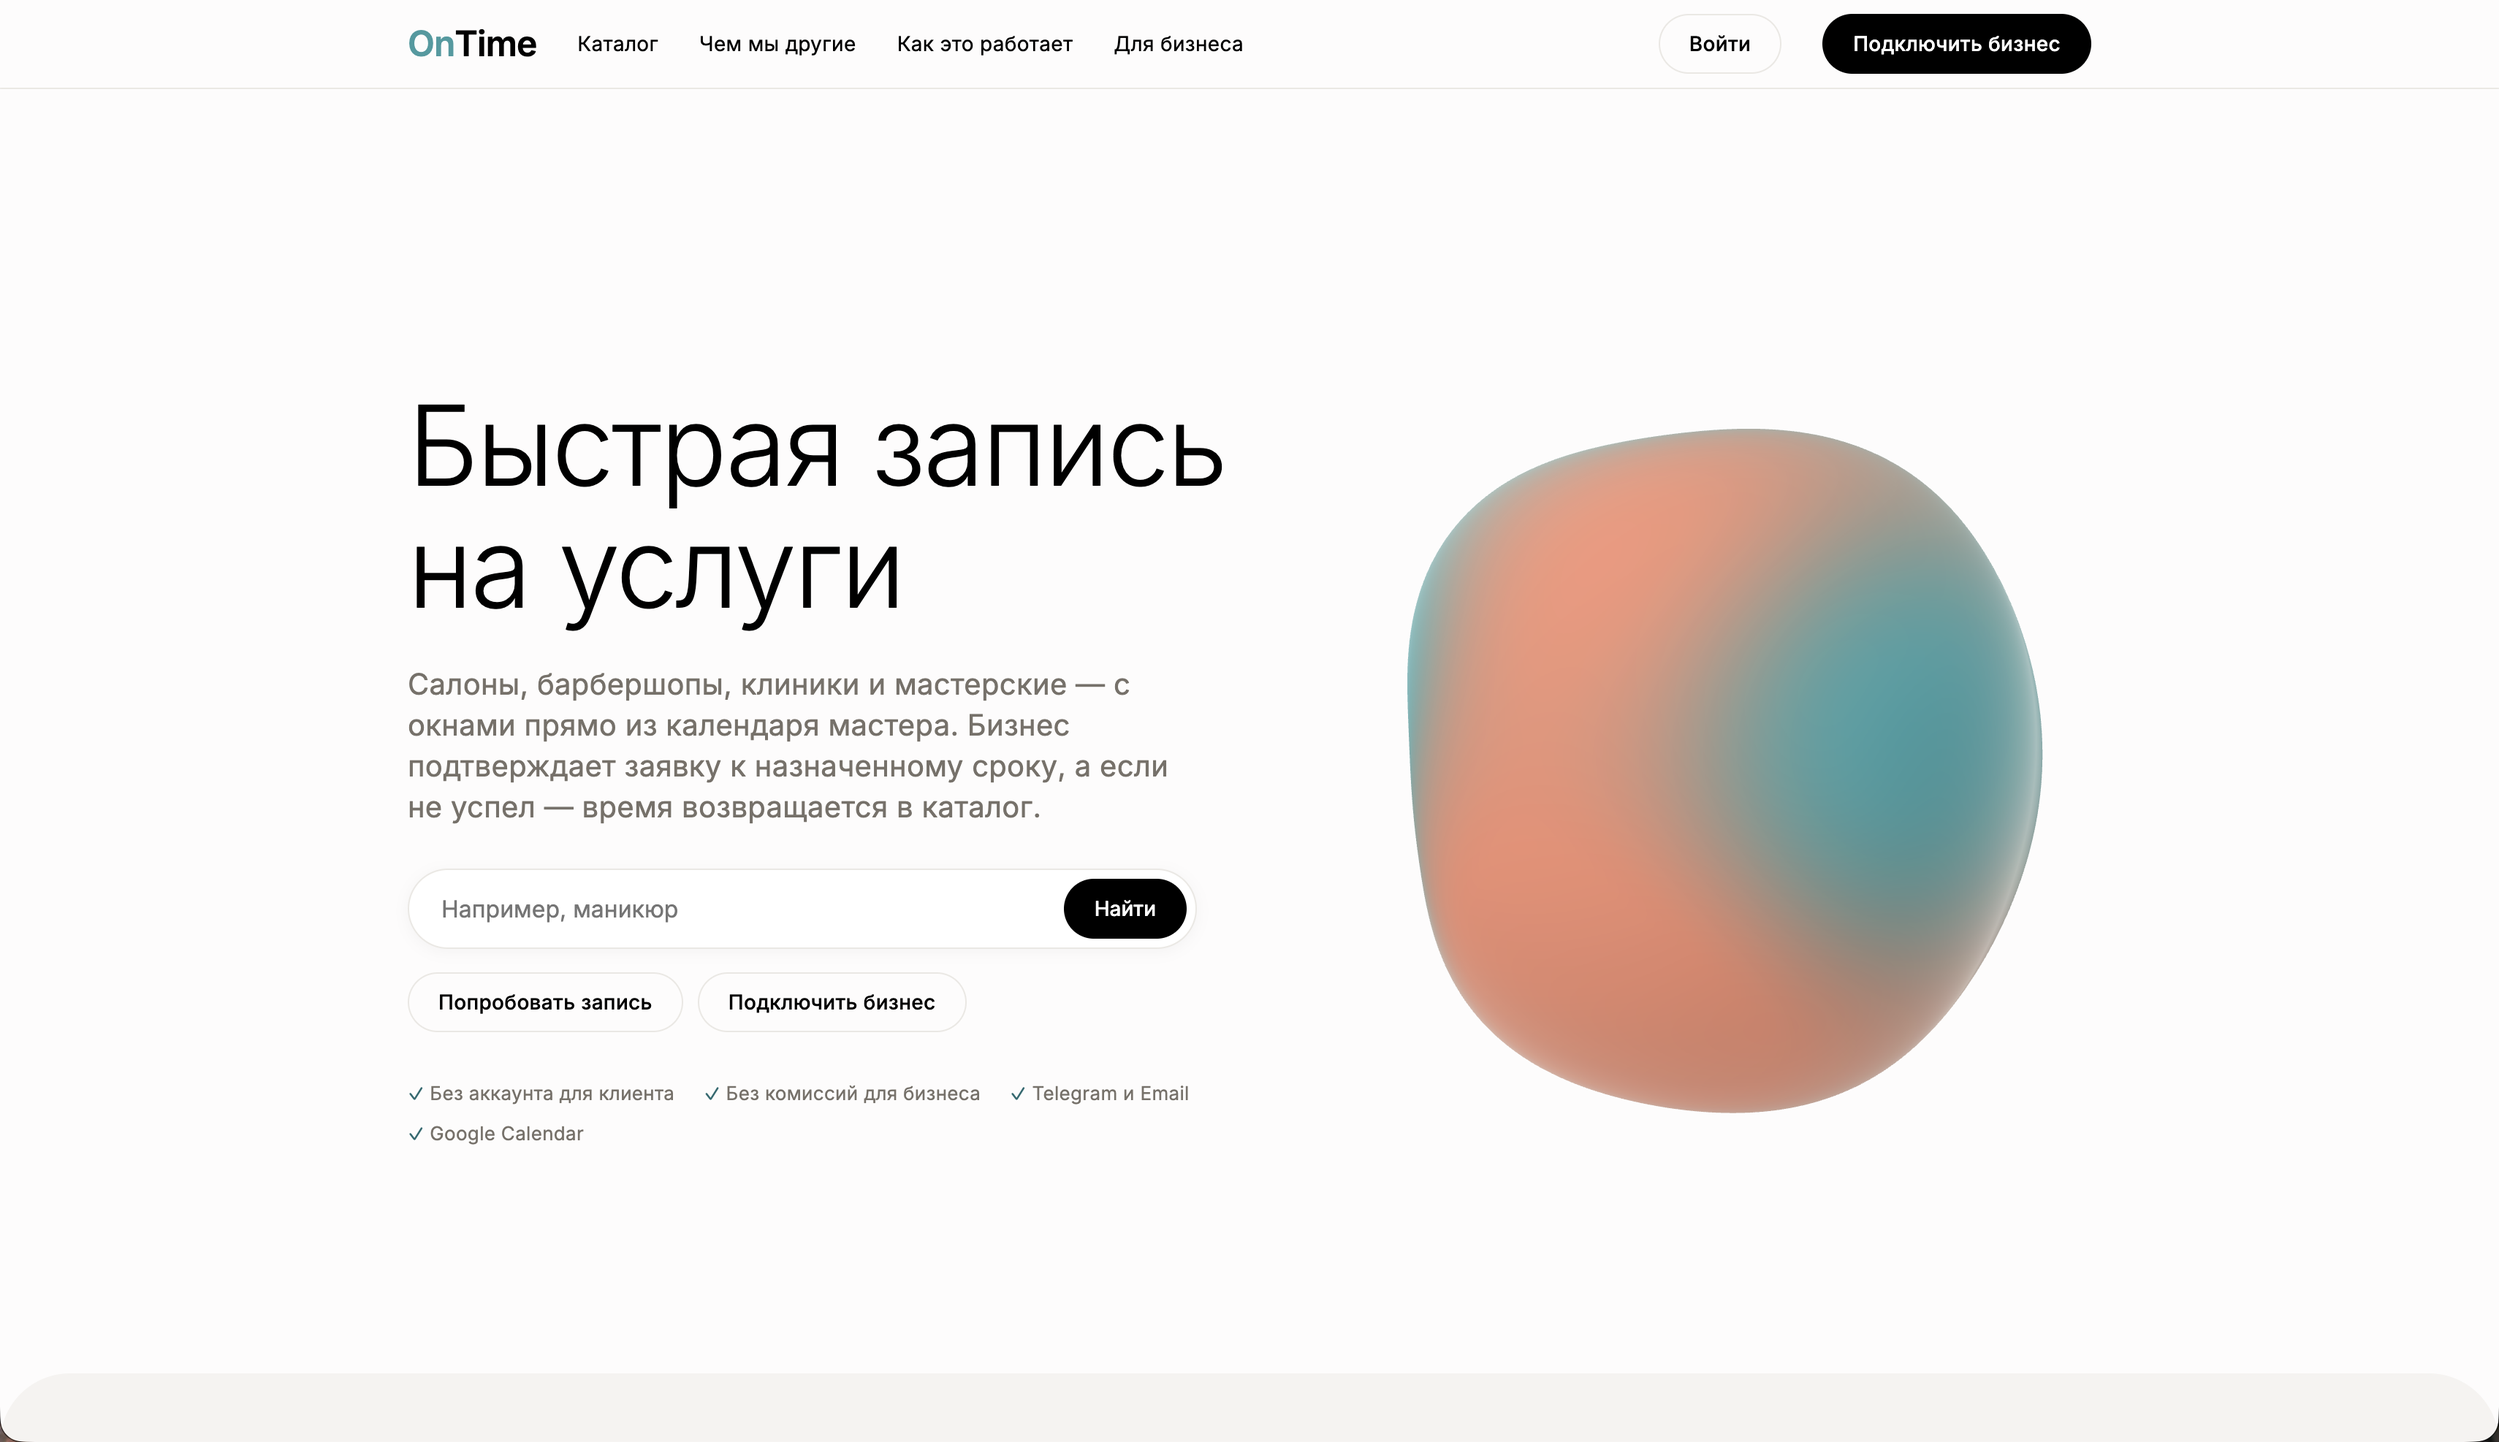
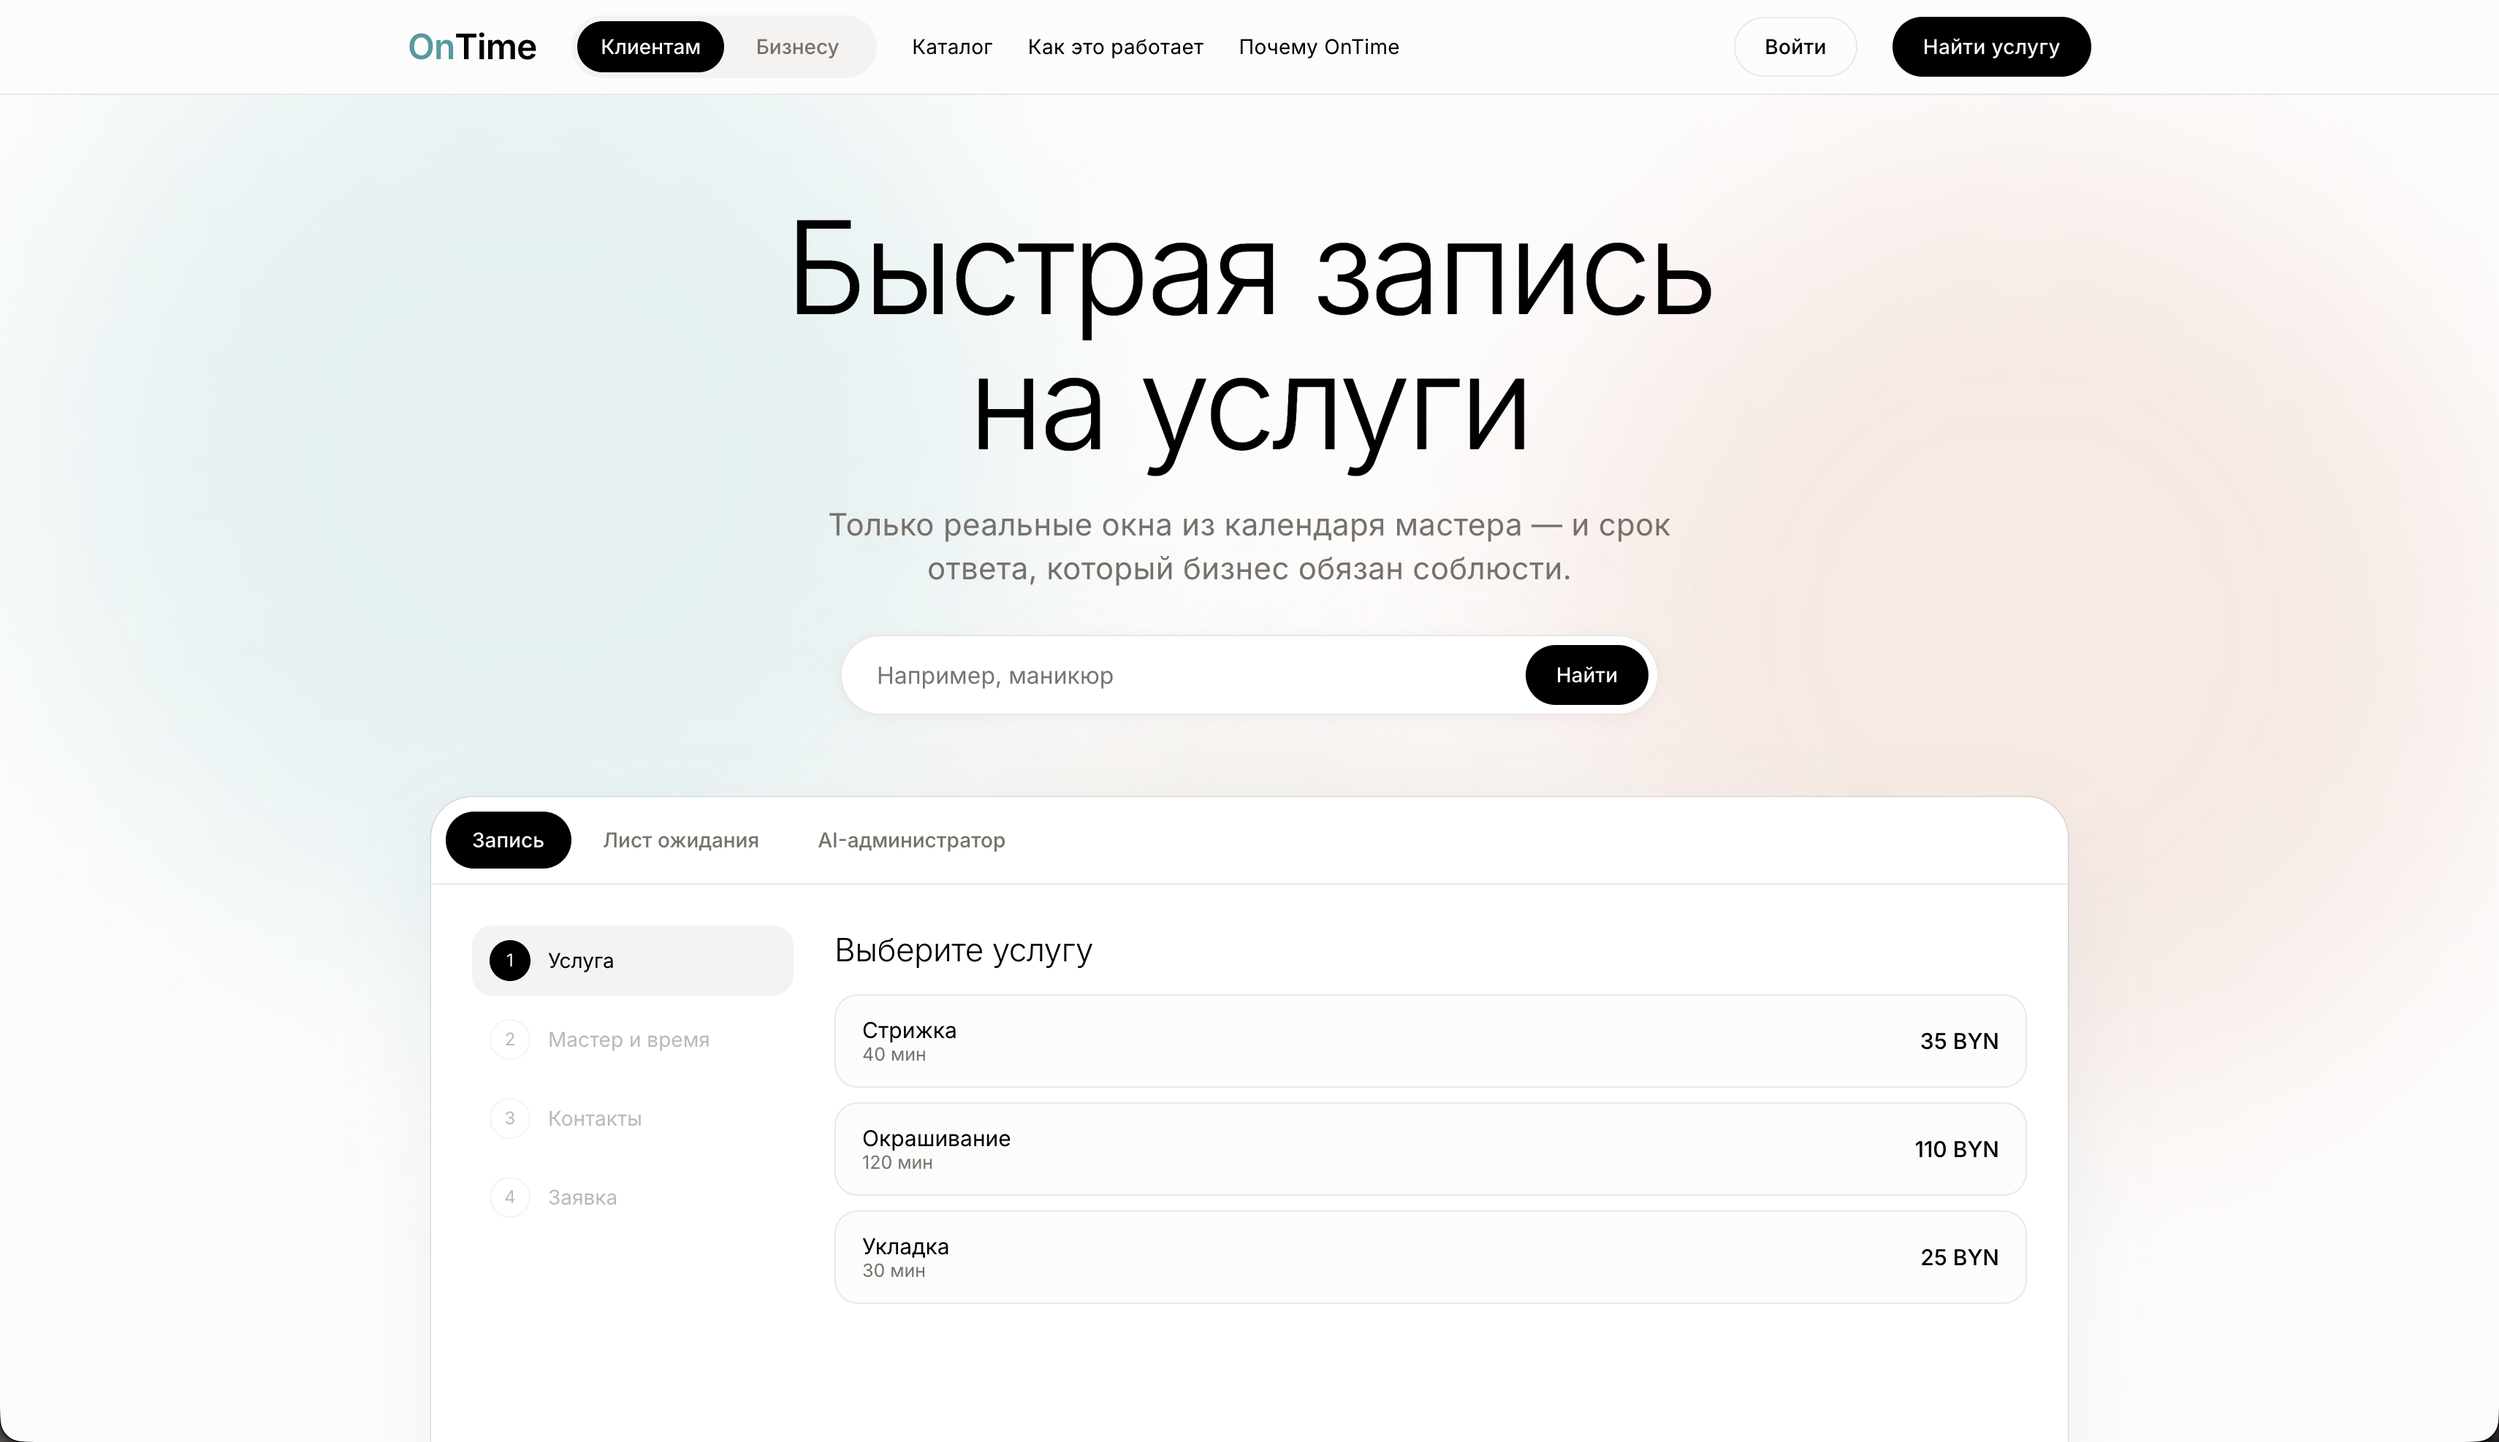
updated photoes and index.html

diff --git a/index.html b/index.html
@@ -340,7 +340,7 @@ code { background: var(--tp); border: 1px solid var(--line); border-radius: 6px;
   <div class="inner">
     <div>
       <div class="kick"><div class="slot" data-k=".8" data-h=".5"></div><div class="eyebrow"><span class="n">03</span> Google Calendar</div></div>
-      <p class="pain">Расписание в тетради<svg class="strike" viewBox="0 0 100 20" preserveAspectRatio="none" aria-hidden="true"><path pathLength="1" d="M2 12 C 20 8, 38 13, 55 9 S 85 7, 98 10"/></svg></p>
+      <p class="pain">Расписание только на платформе<svg class="strike" viewBox="0 0 100 20" preserveAspectRatio="none" aria-hidden="true"><path pathLength="1" d="M2 12 C 20 8, 38 13, 55 9 S 85 7, 98 10"/></svg></p>
       <h2 class="gain">Всё в <em>Google Calendar</em></h2>
     </div>
     <figure class="shot" data-file="shots/calendar.png">
@@ -405,7 +405,7 @@ code { background: var(--tp); border: 1px solid var(--line); border-radius: 6px;
     </div>
     <figure class="shot" data-file="shots/telegram.png">
       <div class="mock-bar"><i></i><i></i><i></i><span>Telegram</span></div>
-      <img src="shots/telegram.jpeg" alt="Уведомления в Telegram">
+      <img src="shots/telegram.png" alt="Уведомления в Telegram">
     </figure>
   </div>
 </section>
@@ -444,7 +444,7 @@ code { background: var(--tp); border: 1px solid var(--line); border-radius: 6px;
 <section class="slide" data-title="on-time.by">
   <div class="inner final rise">
     <div class="slot" data-k="1" data-h=".6" style="--s:110px"></div>
-    <h2>Запишитесь в OnTime прямо сейчас</h2>
+    <h2>OnTime готов к первым клиентам</h2>
     <a class="qr" href="https://on-time.by" target="_blank" rel="noopener" aria-label="QR-код: on-time.by">
       <svg viewBox="-2 -2 29 29" shape-rendering="crispEdges"><path stroke="#000" d="M0 0.5h7m3 0h2m6 0h7m-25 1h1m5 0h1m2 0h3m6 0h1m5 0h1m-25 1h1m1 0h3m1 0h1m4 0h1m1 0h1m2 0h1m1 0h1m1 0h3m1 0h1m-25 1h1m1 0h3m1 0h1m1 0h5m5 0h1m1 0h3m1 0h1m-25 1h1m1 0h3m1 0h1m5 0h3m3 0h1m1 0h3m1 0h1m-25 1h1m5 0h1m1 0h1m2 0h1m6 0h1m5 0h1m-25 1h7m1 0h1m1 0h1m1 0h1m1 0h1m1 0h1m1 0h7m-17 1h4m3 0h2m-16 1h2m3 0h1m4 0h4m1 0h1m1 0h2m1 0h1m-21 1h2m1 0h1m2 0h1m1 0h1m2 0h2m1 0h1m2 0h2m1 0h1m1 0h2m-24 1h2m1 0h1m1 0h2m1 0h1m1 0h2m2 0h1m5 0h2m1 0h1m-25 1h2m5 0h2m4 0h1m2 0h1m1 0h4m-22 1h1m1 0h1m3 0h4m3 0h1m1 0h5m4 0h1m-24 1h3m1 0h1m2 0h2m2 0h2m1 0h2m1 0h2m3 0h2m-25 1h2m1 0h2m1 0h1m2 0h1m2 0h4m5 0h2m1 0h1m-22 1h1m4 0h2m1 0h4m1 0h2m1 0h3m-22 1h4m2 0h4m2 0h1m1 0h1m1 0h5m2 0h1m-16 1h1m1 0h1m5 0h1m3 0h1m3 0h1m-25 1h7m2 0h2m1 0h2m2 0h1m1 0h1m1 0h1m3 0h1m-25 1h1m5 0h1m4 0h1m1 0h1m1 0h2m3 0h1m3 0h1m-25 1h1m1 0h3m1 0h1m3 0h1m2 0h8m2 0h2m-25 1h1m1 0h3m1 0h1m2 0h2m2 0h3m1 0h1m2 0h1m1 0h2m-24 1h1m1 0h3m1 0h1m1 0h1m3 0h4m3 0h3m1 0h2m-25 1h1m5 0h1m1 0h1m1 0h3m1 0h1m1 0h2m1 0h2m-21 1h7m4 0h1m4 0h3m2 0h1m2 0h1"/></svg>
     </a>
